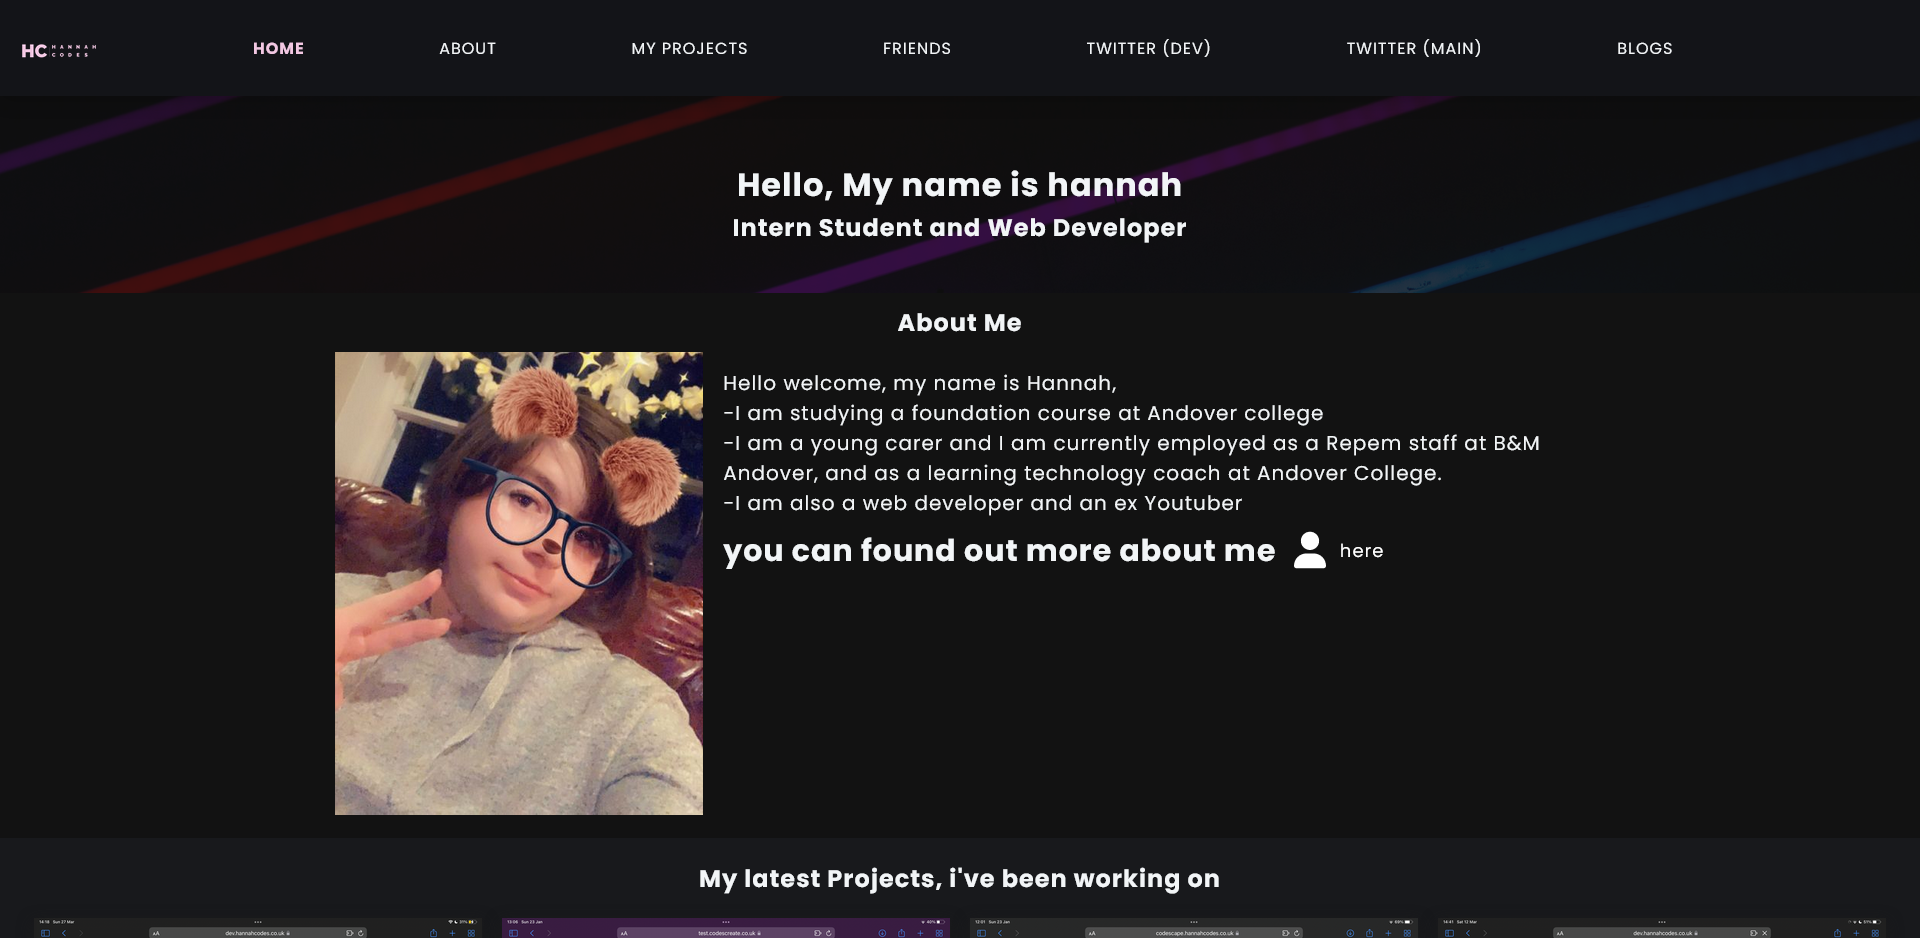
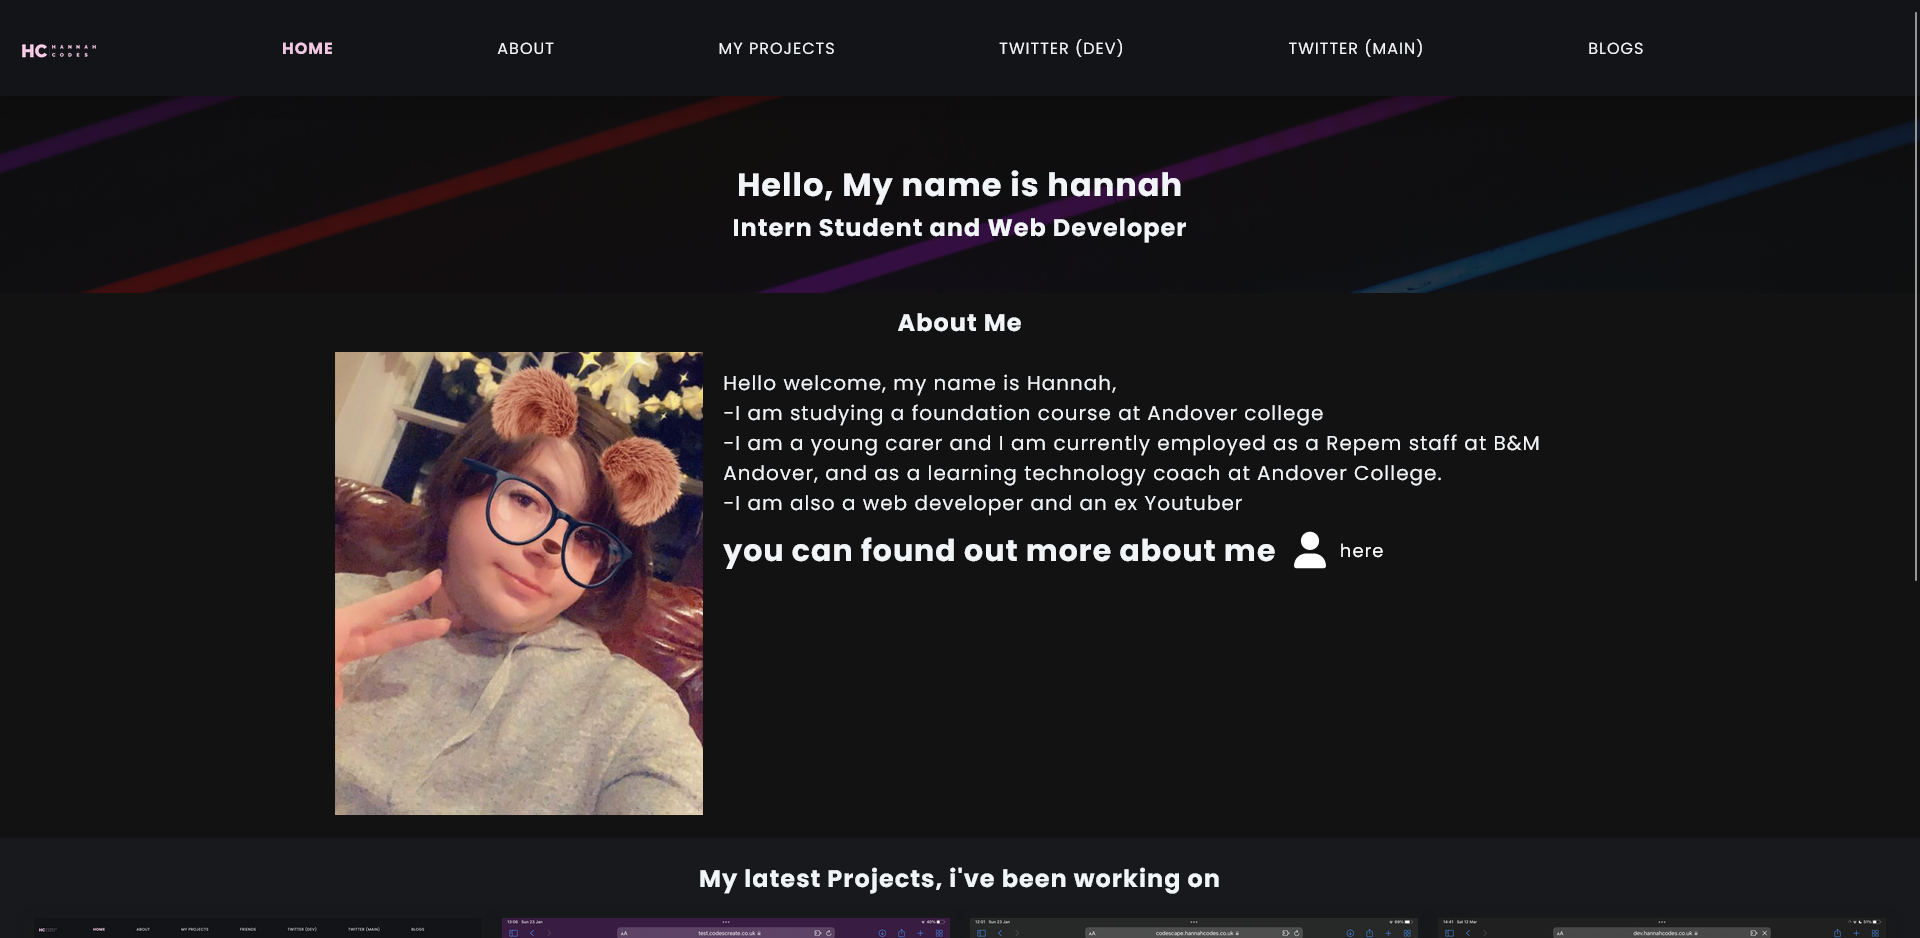
updated project images and removed blog section on index.html

diff --git a/projects/hannahcodes.html b/projects/hannahcodes.html
@@ -36,7 +36,7 @@
     </div>
   
     <div class="project-header-section-box">
-      <h2 class="project-header-section-text"> hannahcodes.co.uk v12</h2>
+      <h2 class="project-header-section-text"> hannahcodes.co.uk v12.1</h2>
       <article>
         <div class="project-link-flex">
         <div class="project_links_placement">
@@ -554,6 +554,33 @@
                     d="M160 80C160 112.8 140.3 140.1 112 153.3V241.1C130.8 230.2 152.7 224 176 224H272C307.3 224 336 195.3 336 160V153.3C307.7 140.1 288 112.8 288 80C288 35.82 323.8 0 368 0C412.2 0 448 35.82 448 80C448 112.8 428.3 140.1 400 153.3V160C400 230.7 342.7 288 272 288H176C140.7 288 112 316.7 112 352V358.7C140.3 371 160 399.2 160 432C160 476.2 124.2 512 80 512C35.82 512 0 476.2 0 432C0 399.2 19.75 371 48 358.7V153.3C19.75 140.1 0 112.8 0 80C0 35.82 35.82 0 80 0C124.2 0 160 35.82 160 80V80zM80 104C93.25 104 104 93.25 104 80C104 66.75 93.25 56 80 56C66.75 56 56 66.75 56 80C56 93.25 66.75 104 80 104zM368 56C354.7 56 344 66.75 344 80C344 93.25 354.7 104 368 104C381.3 104 392 93.25 392 80C392 66.75 381.3 56 368 56zM80 456C93.25 456 104 445.3 104 432C104 418.7 93.25 408 80 408C66.75 408 56 418.7 56 432C56 445.3 66.75 456 80 456z" />
                 </svg>
                 <a href="https://github.com/autumn-skylight/old.hannahcodes.co.uk/hannahcodes/v11.3.1/"
+                  class="source_code_links">source code</a>
+              </div>
+            </div>
+          </article>
+        </div>
+      </div>
+      <div class="item-7">
+        <div class="project_card project_card_a">
+          <div class="blog_page_thumb" style="background-image: url(/assets/images/projects/hc-v10.jpg);"></div>
+          <article>
+            <div class="project_links_placement">
+              <div class="link_placement"><a href="https://old.hannahcodes.co.uk/hannahcodes/v12/index.html"
+                  class="projects_links"> hannahcodes.co.uk (v12)</a> <svg xmlns="http://www.w3.org/2000/svg"
+                  viewBox="0 0 512 512">
+                  <!--! Font Awesome Pro 6.1.1 by @fontawesome - https://fontawesome.com License - https://fontawesome.com/license (Commercial License) Copyright 2022 Fonticons, Inc. -->
+                  <path
+                    d="M384 320c-17.67 0-32 14.33-32 32v96H64V160h96c17.67 0 32-14.32 32-32s-14.33-32-32-32L64 96c-35.35 0-64 28.65-64 64V448c0 35.34 28.65 64 64 64h288c35.35 0 64-28.66 64-64v-96C416 334.3 401.7 320 384 320zM488 0H352c-12.94 0-24.62 7.797-29.56 19.75c-4.969 11.97-2.219 25.72 6.938 34.88L370.8 96L169.4 297.4c-12.5 12.5-12.5 32.75 0 45.25C175.6 348.9 183.8 352 192 352s16.38-3.125 22.62-9.375L416 141.3l41.38 41.38c9.156 9.141 22.88 11.84 34.88 6.938C504.2 184.6 512 172.9 512 160V24C512 10.74 501.3 0 488 0z" />
+                </svg></div>
+            </div>
+            <br>
+            <div class="project_links_placement">
+              <div class="link_placement"><svg class="source_code_svg" xmlns="http://www.w3.org/2000/svg"
+                  viewBox="0 0 448 512">
+                  <path
+                    d="M160 80C160 112.8 140.3 140.1 112 153.3V241.1C130.8 230.2 152.7 224 176 224H272C307.3 224 336 195.3 336 160V153.3C307.7 140.1 288 112.8 288 80C288 35.82 323.8 0 368 0C412.2 0 448 35.82 448 80C448 112.8 428.3 140.1 400 153.3V160C400 230.7 342.7 288 272 288H176C140.7 288 112 316.7 112 352V358.7C140.3 371 160 399.2 160 432C160 476.2 124.2 512 80 512C35.82 512 0 476.2 0 432C0 399.2 19.75 371 48 358.7V153.3C19.75 140.1 0 112.8 0 80C0 35.82 35.82 0 80 0C124.2 0 160 35.82 160 80V80zM80 104C93.25 104 104 93.25 104 80C104 66.75 93.25 56 80 56C66.75 56 56 66.75 56 80C56 93.25 66.75 104 80 104zM368 56C354.7 56 344 66.75 344 80C344 93.25 354.7 104 368 104C381.3 104 392 93.25 392 80C392 66.75 381.3 56 368 56zM80 456C93.25 456 104 445.3 104 432C104 418.7 93.25 408 80 408C66.75 408 56 418.7 56 432C56 445.3 66.75 456 80 456z" />
+                </svg>
+                <a href="https://github.com/autumn-skylight/old.hannahcodes.co.uk/tree/main/hannahcodes/v10"
                   class="source_code_links">source code</a>
               </div>
             </div>

diff --git a/index.html b/index.html
@@ -125,64 +125,6 @@ class="bg"
                 </div>
             </div>
     </section>
-    <section class="index_blog_section">
-      <h1> My latest blogs</h1>
-      <div class="band">
-        <div class="item-2">
-          <a href="https://blog.hannahcodes.co.uk/post/22/10/26_10_22_riding_my_first_rollercoaster_at_thorpe_park.html" class="blog_card">
-            <div class="thumb" style="background-image: url(/assets/images/blogs/IMG_5739.png);"></div>
-            <article>
-              <h1>blog 9- riding my very first rollercoster ever at Thorpe Park.</h1>
-              <p>earlier this year me and my fellow college classmates got the chance to go on an end of year reward trip so we
-                picked thorpe park as our trip choice.</p>
-              <div class="span_flex">
-                <span>26th october 2022</span>
-                <span>by hannah</span>
-              </div>
-            </article>
-          </a>
-        </div>
-        <div class="item-2">
-          <a href="https://blog.hannahcodes.co.uk/post/22/10/15_10_22_attending_high_clear_country_show_2022.html" class="blog_card">
-            <div class="thumb" style="background-image: url(/assets/images/blogs/IMG_5563.png);"></div>
-            <article>
-              <h1>blog 8- Attending the Highclear country show in Newbury.</h1>
-              <p>after 2 years when all events were cancelled due to covid and 4 year since we attended the last one, we finally got to go to the Highclear country show in Newbury in may of this year.</p>
-                <div class="span_flex">
-                <span>15th october 2022</span>
-                <span>by hannah</span>
-                </div>
-            </article>
-          </a>
-        </div>
-        <div class="item-2">
-          <a href="https://blog.hannahcodes.co.uk/post/22/10/09_10_22_riding_the_new_central_part_of_elizabeth_line.html" class="blog_card">
-            <div class="thumb" style="background-image: url(/assets/images/blogs/IMG_5503.JPEG);"></div>
-            <article>
-              <h1>blog 7- Riding the New central part of the Elizabeth line on first day of opening.</h1>
-              <p>back in may 2022, the brand new central part of the Elizabeth line (paddington to abby wood) finally open to the public so I decided with some friends to go and ride it on the very first day of opening. </p>
-                <div class="span_flex">
-                <span>9th October 2022</span>
-                <span>by hannah</span>
-                </div>
-            </article>
-          </a>
-        </div>
-        <div class="item-7">
-          <a href="https://blog.hannahcodes.co.uk/post/22/08/15_08_22_what_i_thought_of_the_new_fantastic_beast_movie.html" class="blog_card">
-            <div class="thumb" style="background-image: url(/assets/images/blogs/fantastic-beast-3-the-secrets-of-dumbledore.jpg);"></div>
-            <article>
-              <h1>blog 6- what i thought of the new fantastic beast movie.</h1>
-              <p>this year we saw the cinema release of the 3rd movie to the fantastic beast franchise 'The Secrets Of Dumbledore', so we decided we would go and see it as we've seen all the others and all of the Harry Potter films.</p>
-              <div class="span_flex">
-              <span>15th august, 2022</span>
-              <span>by hannah</span>
-              </div>
-            </article>
-          </a>
-        </div>
-      </div>
-  </section>
   <footer> <div class="footer_display">
     <div class="footer_logo">
       <picture>

diff --git a/projects/projects.html b/projects/projects.html
@@ -43,7 +43,7 @@
           <article>
             <div class="project_links_placement">
               <div class="link_placement"><a href="https://hannahcodes.co.uk/index.html"
-                  class="projects_links">hannahcodes.co.uk (v12)</a> <svg xmlns="http://www.w3.org/2000/svg"
+                  class="projects_links">hannahcodes.co.uk (v12.1)</a> <svg xmlns="http://www.w3.org/2000/svg"
                   viewBox="0 0 512 512">
                   <!--! Font Awesome Pro 6.1.1 by @fontawesome - https://fontawesome.com License - https://fontawesome.com/license (Commercial License) Copyright 2022 Fonticons, Inc. -->
                   <path
